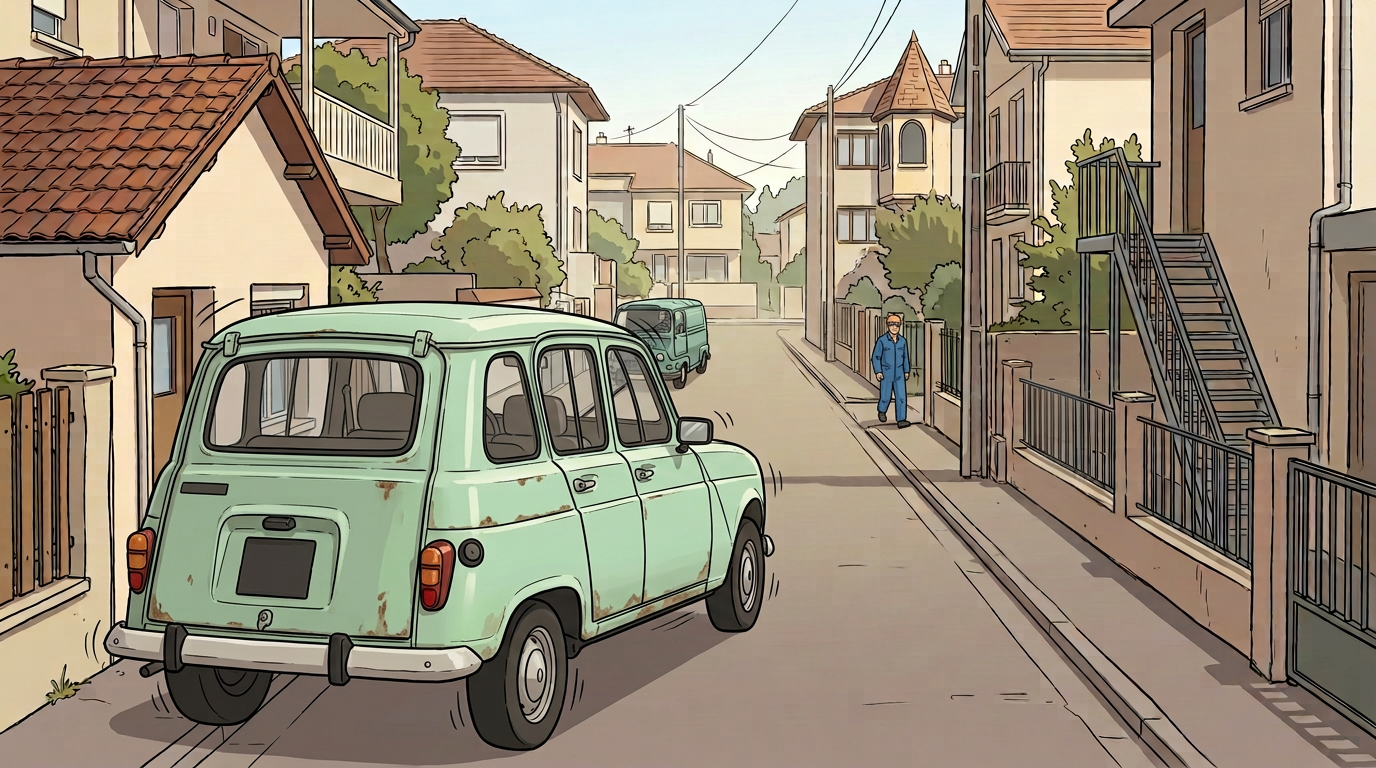
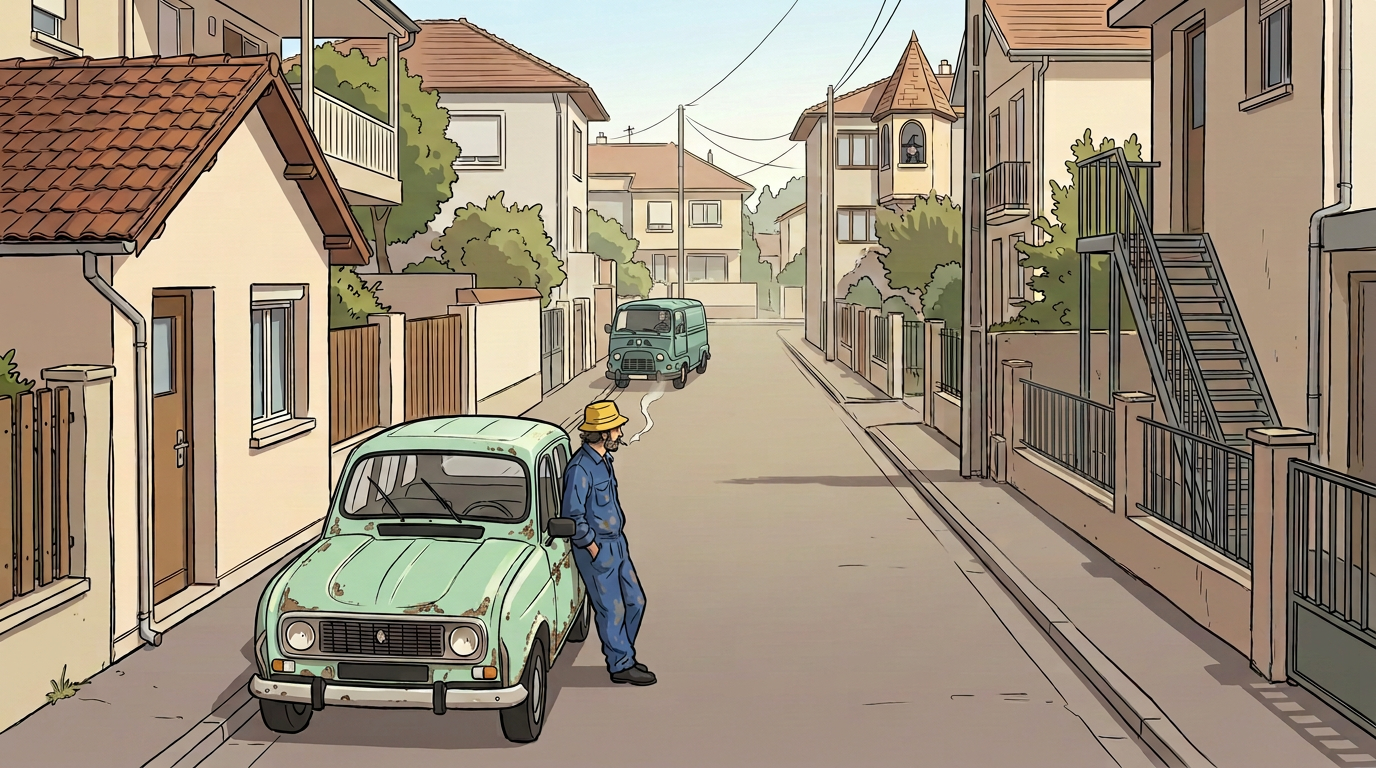
Lock Renault 4L position and correct P11 frame

diff --git a/docs/storyboard-images.md b/docs/storyboard-images.md
@@ -2,6 +2,12 @@
 
 **Avancement : 17/29 images terminées et poussées.** P18 est en ébauche locale mais n'est pas comptée : la cigarette de Jeannot manque et doit être corrigée. Une image autonome 16:9 par plan ; cette étape produit les images-clés uniquement, sans annoter les mouvements de caméra ni monter l'animatique. Après les 29 images : annotations détaillées, mouvements de caméra, montage complet du storyboard, puis création et animation.
 
+## Verrou de continuité spatiale
+
+- P01 est la carte maîtresse de la rue. La 4L reste toujours au même emplacement devant chez Jeannot, contre le trottoir gauche, avec le nez vers le point de vue du narrateur ; elle ne change ni de place ni d'orientation entre les plans.
+- L'Estafette reste au même trottoir gauche, plus loin vers Diego. La Coccinelle orange reste à son aire de réparation, sur parpaings, et n'apparaît dans la rue que si un plan le justifie.
+- Les changements de cadrage viennent de la caméra, jamais d'un déplacement implicite des voitures. Pour chaque nouvelle image, reprendre P01 et le plan adjacent comme références de décor et d'axe.
+
 | Plan | Image | État |
 |---|---|---|
 | P01 | [`assets/storyboards/p01-establishing-street.png`](../assets/storyboards/p01-establishing-street.png) | ✅ Poussée — Estafette garée du même côté que la 4L |
@@ -14,7 +20,7 @@
 | P08 | [`assets/storyboards/p08-henri-stair-fall.png`](../assets/storyboards/p08-henri-stair-fall.png) | ✅ Poussée — appui main/genou, sans rotation ni gore |
 | P09 | [`assets/storyboards/p09-jeannot-victory-pose.png`](../assets/storyboards/p09-jeannot-victory-pose.png) | ✅ Poussée — pose héroïque, 4L intacte |
 | P10 | [`assets/storyboards/p10-jeannot-stays.png`](../assets/storyboards/p10-jeannot-stays.png) | ✅ Poussée — gros plan, Jeannot reste dans la rue |
-| P11 | [`assets/storyboards/p11-4l-in-street.png`](../assets/storyboards/p11-4l-in-street.png) | ✅ Poussée — 4L entière, rouille et vue arrière |
+| P11 | [`assets/storyboards/p11-4l-in-street.png`](../assets/storyboards/p11-4l-in-street.png) | 🔁 Corrigée — emplacement et orientation verrouillés comme P01 |
 | P12 | [`assets/storyboards/p12-diego-watches.png`](../assets/storyboards/p12-diego-watches.png) | ✅ Poussée — Diego observe depuis l'Estafette |
 | P13 | [`assets/storyboards/p13-witch-watches.png`](../assets/storyboards/p13-witch-watches.png) | ✅ Poussée — la sœur observe Diego depuis la tourelle |
 | P14 | [`assets/storyboards/p14-diego-rattles-4l.png`](../assets/storyboards/p14-diego-rattles-4l.png) | ✅ Poussée — secousse comique, 4L intacte |
